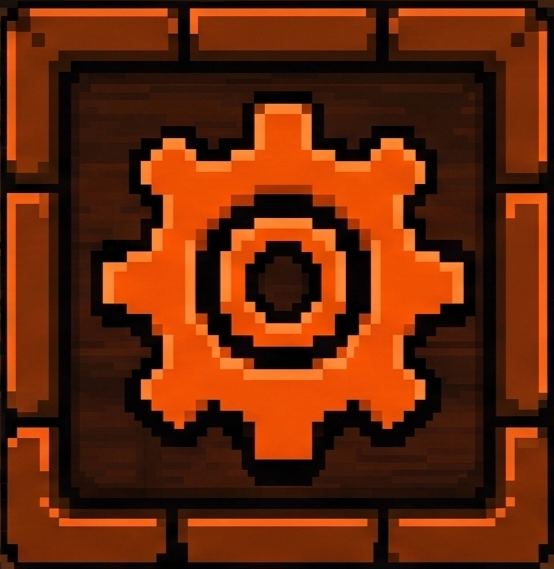
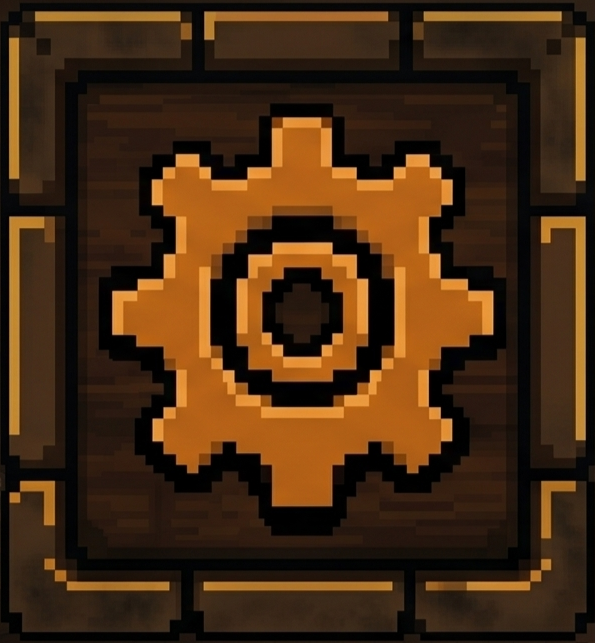
atualizacao do pause, tela/botões

diff --git a/menu.py b/menu.py
@@ -12,15 +12,22 @@ class Menu(CenaBase):
     self.proxima_cena = None
 
     meio_x = tela.get_width() // 2
-    y_botoes = tela.get_height() * 0.75
+    y_botoes = tela.get_height() * 0.82
     #botões do menu principal
 
-    tamanho_icone = (150, 150)
+    tamanho_icone = (120, 120)
+
+    def carregar_icone(nome_arquivo):
+      try:
+        return pygame.transform.scale(pygame.image.load(f"assets/{nome_arquivo}"), tamanho_icone)
+      except FileNotFoundError:
+        return None
+
     self.botoes = [
-            {"texto": "INICIAR JOGO", "pos": (meio_x - 420, y_botoes), "icone": pygame.transform.scale(pygame.image.load("assets/botaoiniciar.png"), tamanho_icone)},
-            {"texto": "CONFIGURAÇÕES", "pos": (meio_x - 140, y_botoes), "icone": pygame.transform.scale(pygame.image.load("assets/botaoconfig.png"), tamanho_icone)},
-            {"texto": "EXTRA", "pos": (meio_x + 140, y_botoes), "icone": pygame.transform.scale(pygame.image.load("assets/botaoextras.png"), tamanho_icone)},
-            {"texto": "SAIR", "pos": (meio_x + 420, y_botoes), "icone": pygame.transform.scale(pygame.image.load("assets/botaosair.png"), tamanho_icone)},
+            {"texto": "INICIAR JOGO", "pos": (meio_x - 310, y_botoes), "icone": carregar_icone("botaojogar.png")},
+            {"texto": "CONFIGURAÇÕES", "pos": (meio_x - 110, y_botoes), "icone": carregar_icone("botaoconfig.png")},
+            {"texto": "EXTRA", "pos": (meio_x + 110, y_botoes), "icone": carregar_icone("botaocreditos.png")},
+            {"texto": "SAIR", "pos": (meio_x + 310, y_botoes), "icone": carregar_icone("botaosair.png")}
         ]
 
     for botao in self.botoes:
@@ -48,6 +55,9 @@ class Menu(CenaBase):
             elif botao["texto"] == "INICIAR JOGO":
               self.terminou = True
               self.proxima_cena = "introducao"
+            elif botao["texto"] == "CONFIGURAÇÕES":
+              self.terminou = True
+              self.proxima_cena = "opcoes"
             elif botao["texto"] == "EXTRA":
               self.terminou = True
               self.proxima_cena = "creditos"
@@ -65,14 +75,26 @@ class Menu(CenaBase):
 
     #desenha os ícones dos botões
     for botao in self.botoes:
-      iconeretangulo = botao["icone"].get_rect(center=botao["pos"])
-      hover = iconeretangulo.collidepoint(posicaomouse)
-      
-      #aumenta o ícone se o mouse estiver em cima
-      if hover:
-        icone = pygame.transform.scale(botao["icone"], (180, 180))
+      if botao["icone"] is not None:
+        iconeretangulo = botao["icone"].get_rect(center=botao["pos"])
+        hover = iconeretangulo.collidepoint(posicaomouse)
+
+        #aumenta o ícone se o mouse estiver em cima
+        if hover:
+          icone = pygame.transform.scale(botao["icone"], (150, 150))
+        else:
+          icone = botao["icone"]
+        iconeretangulo = icone.get_rect(center=botao["pos"])
+        self.tela.blit(icone, iconeretangulo)
+        botao["rect"] = iconeretangulo
+
+        if hover:
+          label = fonte(22).render(botao["texto"], True, (255, 255, 255))
+          label_rect = label.get_rect(midtop=(botao["pos"][0], iconeretangulo.bottom + 8))
+          self.tela.blit(label, label_rect)
       else:
-        icone = botao["icone"]
-      iconeretangulo = icone.get_rect(center=botao["pos"])
-      self.tela.blit(icone, iconeretangulo)
-      botao["rect"] = iconeretangulo
+        botao["rect"] = pygame.Rect(0, 0, tamanho_icone[0], tamanho_icone[1])
+        botao["rect"].center = botao["pos"]
+        texto = fonte(24).render(botao["texto"], True, (255, 255, 255))
+        texto_rect = texto.get_rect(center=botao["pos"])
+        self.tela.blit(texto, texto_rect)

diff --git a/main.py b/main.py
@@ -16,6 +16,8 @@ from cenas_tutorial.comprar_cartas import CenaEscolhaCarta
 from cenas_tutorial.creditos import CenaCreditos
 from cenas_tutorial.inventario import CenaInventario
 from cenas_tutorial.mochila_tutorial import CenaMochila
+from cenas_tutorial.cena_opcoes import CenaOpcoes
+from cenas_tutorial.cena_pause import CenaPause
 
 def efeito_transicao(tela, cena_nova):
     largura, altura = tela.get_size()
@@ -117,7 +119,8 @@ def main():
     while rodando:
         dt = relogio.tick(60)
         eventos = pygame.event.get()
-        
+        pausa_pedido = False
+
         for evento in eventos:
             if evento.type == pygame.QUIT:
                 rodando = False
@@ -128,6 +131,13 @@ def main():
                 else:
                     pygame.mixer.music.pause()
                     musica_pausada = True
+            elif evento.type == pygame.KEYDOWN and evento.key == pygame.K_ESCAPE:
+                if not isinstance(cena_atual, (Menu, CenaPause)):
+                    pausa_pedido = True
+
+        if pausa_pedido:
+            cena_atual = CenaPause(tela, cena_atual)
+            eventos = []
 
         cena_atual.processar_eventos(eventos)
         cena_atual.atualizar(dt)
@@ -157,6 +167,10 @@ def main():
 
             proxima = cena_atual.proxima_cena
             cena_atual.terminou = False
+
+        if isinstance(proxima, CenaBase):
+            cena_atual = proxima
+            proxima = None
 
         if proxima == "introducao":
                 nova_cena = CenaIntroducao(tela)
@@ -198,6 +212,17 @@ def main():
         if proxima == "creditos":
             nova_cena = CenaCreditos(tela)
             efeito_transicao(tela, nova_cena)
+            cena_atual = nova_cena
+            proxima = None
+
+        if proxima == "opcoes":
+            nova_cena = CenaOpcoes(tela)
+            efeito_transicao(tela, nova_cena)
+            cena_atual = nova_cena
+            proxima = None
+
+        if proxima == "pause":
+            nova_cena = CenaPause(tela, cena_atual)
             cena_atual = nova_cena
             proxima = None
 